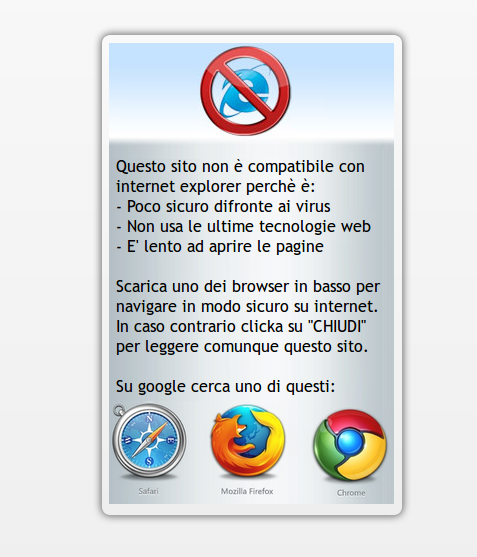
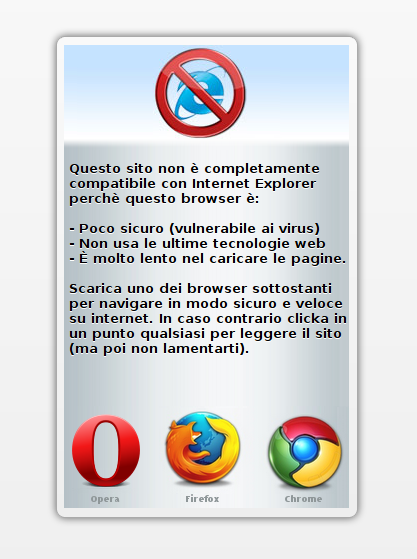
[release] version 0.1

Changed region(s): [[0.1247, 0.0305, 0.8729, 0.9461]]

diff --git a/src/anti-msie/css/anti-msie.css b/src/anti-msie/css/anti-msie.css
@@ -1,0 +1,64 @@
+/*
+ * Anti-MSIE (jQuery Popup)
+ *   Copyright (C) 2012  PTKDev
+ *
+ *   This program is free software: you can redistribute it and/or modify
+ *   it under the terms of the GNU Affero General Public License as published by
+ *   the Free Software Foundation, either version 3 of the License, or
+ *   (at your option) any later version.
+ *
+ *   This program is distributed in the hope that it will be useful,
+ *   but WITHOUT ANY WARRANTY; without even the implied warranty of
+ *   MERCHANTABILITY or FITNESS FOR A PARTICULAR PURPOSE.  See the
+ *   GNU Affero General Public License for more details.
+ *
+ *   You should have received a copy of the GNU Affero General Public License
+ *   along with this program.  If not, see <http://www.gnu.org/licenses/>.
+ */
+#anti-msie_ie{
+	background-image: url("../img/anti-msie_head.png"); 
+	background-repeat: no-repeat; 
+	width: 285px; 
+	height: 116px;
+	margin-left: 7px;
+}
+
+#anti-msie_body{
+	background-image: url("../img/anti-msie_body.png"); 
+	background-repeat: repeat-y; 
+	width: 285px; 
+	height: 245px;
+	font-family: "DejaVu Sans", "Sans Serif",Verdana; 
+	font-size: 13px;
+	font-weight: bold;
+	color: #000000;
+	clear: both;
+	margin-left: 7px;
+	padding-left: 5px;
+	padding-right: 5px;
+}
+
+#anti-msie_browser1{
+	background-image: url("../img/anti-msie_opera.png"); 
+	background-repeat: no-repeat;  
+	width: 90px; 
+	height: 102px;
+	float: left;
+	margin-left: 7px;
+}
+
+#anti-msie_browser2{
+	background-image: url("../img/anti-msie_firefox.png"); 
+	background-repeat: no-repeat; 
+	width: 102px; 
+	height: 102px;
+	float: left;
+}
+
+#anti-msie_browser3{
+	background-image: url("../img/anti-msie_chrome.png"); 
+	background-repeat: no-repeat; 
+	width: 93px; 
+	height: 102px;
+	float: left;
+}

diff --git a/src/anti-msie/anti-msie.php b/src/anti-msie/anti-msie.php
@@ -1,0 +1,46 @@
+<?php
+/*
+ * Anti-MSIE (jQuery Popup)
+ *   Copyright (C) 2012  PTKDev
+ *
+ *   This program is free software: you can redistribute it and/or modify
+ *   it under the terms of the GNU Affero General Public License as published by
+ *   the Free Software Foundation, either version 3 of the License, or
+ *   (at your option) any later version.
+ *
+ *   This program is distributed in the hope that it will be useful,
+ *   but WITHOUT ANY WARRANTY; without even the implied warranty of
+ *   MERCHANTABILITY or FITNESS FOR A PARTICULAR PURPOSE.  See the
+ *   GNU Affero General Public License for more details.
+ *
+ *   You should have received a copy of the GNU Affero General Public License
+ *   along with this program.  If not, see <http://www.gnu.org/licenses/>.
+ */
+?>
+	<?php 
+		include_once("jquery.php");
+		$browser_lang = substr($_SERVER['HTTP_ACCEPT_LANGUAGE'], 0, 2);
+		if(file_exists("anti-msie/po/$browser_lang.php"))
+			include_once("anti-msie/po/$browser_lang.php"); 
+		else
+			include_once("anti-msie/po/en.php"); 
+	?>
+	<div id="anti-msie" data-role="popup" data-history="false" >
+		<p>
+			<div id="anti-msie_ie"></div>
+			<div id="anti-msie_body"><?php echo $msie_lang; ?></div>
+			<a href="<?php echo $msie_url1; ?>"><div id="anti-msie_browser1"></div></a>
+			<a href="<?php echo $msie_url2; ?>"><div id="anti-msie_browser2"></div></a>
+			<a href="<?php echo $msie_url3; ?>"><div id="anti-msie_browser3"></div></a>
+		
+		</p>
+	</div>
+	<script type="text/javascript" language="JavaScript">
+		$("#anti-msie").css("width", "300px");
+		$("#anti-msie").css("height", "480px");
+		$(":jqmData(role='page'):last").on("pageshow", function(event) {
+		  $("#anti-msie", $(this)).popup("open");
+		});
+	</script>
+<!--[if IE]>
+<![endif]-->

diff --git a/src/anti-msie/po/en.php b/src/anti-msie/po/en.php
@@ -1,0 +1,28 @@
+<?php
+/*
+ * Anti-MSIE (jQuery Popup)
+ *   Copyright (C) 2012  PTKDev
+ *
+ *   This program is free software: you can redistribute it and/or modify
+ *   it under the terms of the GNU Affero General Public License as published by
+ *   the Free Software Foundation, either version 3 of the License, or
+ *   (at your option) any later version.
+ *
+ *   This program is distributed in the hope that it will be useful,
+ *   but WITHOUT ANY WARRANTY; without even the implied warranty of
+ *   MERCHANTABILITY or FITNESS FOR A PARTICULAR PURPOSE.  See the
+ *   GNU Affero General Public License for more details.
+ *
+ *   You should have received a copy of the GNU Affero General Public License
+ *   along with this program.  If not, see <http://www.gnu.org/licenses/>.
+ */
+$msie_lang = "Questo sito non è completamente compatibile con Internet Explorer perchè questo browser:<br /><br />
+			  - Poco sicuro (vulnerabile ai virus)<br />
+			  - Non usa le ultime tecnologie web<br />
+			  - È molto lento nel caricare le pagine.<br /><br />
+			  Scarica uno dei browser sottostanti per navigare in modo sicuro e veloce su internet. 
+			  In caso contrario clicka in un punto qualsiasi per leggere il sito (ma poi non lamentarti).";
+$msie_url1 = "http://www.opera.com/download/";
+$msie_url2 = "http://www.mozilla.org/firefox/";
+$msie_url3 = "https://www.google.com/chrome/";
+?>

diff --git a/src/anti-msie/po/it.php b/src/anti-msie/po/it.php
@@ -1,0 +1,28 @@
+<?php
+/*
+ * Anti-MSIE (jQuery Popup)
+ *   Copyright (C) 2012  PTKDev
+ *
+ *   This program is free software: you can redistribute it and/or modify
+ *   it under the terms of the GNU Affero General Public License as published by
+ *   the Free Software Foundation, either version 3 of the License, or
+ *   (at your option) any later version.
+ *
+ *   This program is distributed in the hope that it will be useful,
+ *   but WITHOUT ANY WARRANTY; without even the implied warranty of
+ *   MERCHANTABILITY or FITNESS FOR A PARTICULAR PURPOSE.  See the
+ *   GNU Affero General Public License for more details.
+ *
+ *   You should have received a copy of the GNU Affero General Public License
+ *   along with this program.  If not, see <http://www.gnu.org/licenses/>.
+ */
+$msie_lang = "Questo sito non è completamente compatibile con Internet Explorer perchè questo browser:<br /><br />
+			  - Poco sicuro (vulnerabile ai virus)<br />
+			  - Non usa le ultime tecnologie web<br />
+			  - È molto lento nel caricare le pagine.<br /><br />
+			  Scarica uno dei browser sottostanti per navigare in modo sicuro e veloce su internet. 
+			  In caso contrario clicka in un punto qualsiasi per leggere il sito (ma poi non lamentarti).";
+$msie_url1 = "http://www.opera.com/download/";
+$msie_url2 = "http://www.mozilla.org/firefox/";
+$msie_url3 = "https://www.google.com/chrome/";
+?>

diff --git a/src/demo.php b/src/demo.php
@@ -1,6 +1,6 @@
 <!DOCTYPE html>
 <!--
-anti-msie (jQuery Popup)
+Anti-MSIE (jQuery Popup)
     Copyright (C) 2012  PTKDev
 
     This program is free software: you can redistribute it and/or modify
@@ -18,22 +18,10 @@ anti-msie (jQuery Popup)
 -->
 <html>
     <head>
-        <title>anti-msie</title>
-		<link href="./css/jquery.mobile-1.2.0.min.css" rel="stylesheet" />
-		<script src="./js/jquery.js"></script>
-		<script src="./js/jquery.mobile-1.2.0.min.js"></script>
+		<meta charset="UTF-8" />
+		<title>Anti-MSIE</title>
     </head>
 <body>
-		<!--[if IE]>
-			<div id="anti-msie" data-role="popup" data-history="false" >
-				<p><img src="./img/anti-msie_it.png" alt="anti-msie" /><br /><p>
-			</div>
-			<script type="text/javascript" language="JavaScript">
-				$("#anti-msie").css("width", "300px");
-				$("#anti-msie").css("height", "480px");
-				$(":jqmData(role='page'):last").on("pageshow", function(event) {
-				  $("#anti-msie", $(this)).popup("open");
-				});
-			</script>
-		<![endif]-->
-</body></html>
+<?php include_once("anti-msie/anti-msie.php"); ?>
+</body>
+</html>

diff --git a/src/anti-msie/jquery.php b/src/anti-msie/jquery.php
@@ -1,0 +1,23 @@
+<?php
+/*
+ * Anti-MSIE (jQuery Popup)
+ *   Copyright (C) 2012  PTKDev
+ *
+ *   This program is free software: you can redistribute it and/or modify
+ *   it under the terms of the GNU Affero General Public License as published by
+ *   the Free Software Foundation, either version 3 of the License, or
+ *   (at your option) any later version.
+ *
+ *   This program is distributed in the hope that it will be useful,
+ *   but WITHOUT ANY WARRANTY; without even the implied warranty of
+ *   MERCHANTABILITY or FITNESS FOR A PARTICULAR PURPOSE.  See the
+ *   GNU Affero General Public License for more details.
+ *
+ *   You should have received a copy of the GNU Affero General Public License
+ *   along with this program.  If not, see <http://www.gnu.org/licenses/>.
+ */
+?>
+<link href="anti-msie/css/jquery.mobile-1.2.0.min.css" rel="stylesheet" />
+<link href="anti-msie/css/anti-msie.css" rel="stylesheet" />
+<script src="anti-msie/js/jquery.js"></script>
+<script src="anti-msie/js/jquery.mobile-1.2.0.min.js"></script>

diff --git a/README.md b/README.md
@@ -4,29 +4,11 @@ Anti Microsoft Internet Explorer is jQuery Popup To Stop The Use IE Browers
 
 ## How to Install
 
-1) Copy anti-ie image, css and js from src folder to your website and fix path on step2 and step3.
+1) Copy src/anti-msie folder on your website
 
-2) Add css and jquery into `<head></head>`:
-```html
-	<link href="./css/jquery.mobile-1.2.0.min.css" rel="stylesheet" />
-	<script src="./js/jquery.js"></script>
-	<script src="./js/jquery.mobile-1.2.0.min.js"></script>
-	<script type="text/javascript" language="JavaScript">
-		$("#anti-msie").css("width", "300px");
-		$("#anti-msie").css("height", "480px");
-		$(":jqmData(role='page'):last").on("pageshow", function(event) {
-		  $("#anti-msie", $(this)).popup("open");
-		});
-	</script>
-```
-    
-3) Add css and jquery into after `<body>`:
-```html
-	<!--[if IE]>
-		<div id="anti-msie" data-role="popup" data-history="false" >
-			<p><img src="./img/anti-msie_it.png" alt="anti-msie" /><br /><p>
-		</div>
-	<![endif]-->
+2) Add script and jquery before `</body>`:
+```php
+	<?php include_once("anti-msie/anti-msie.php"); ?>
 ```
 
 ## Support
